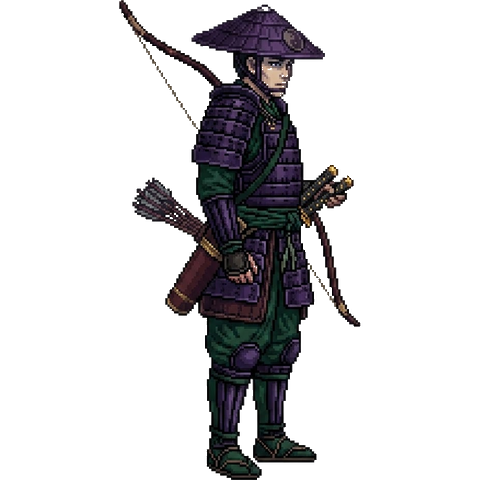
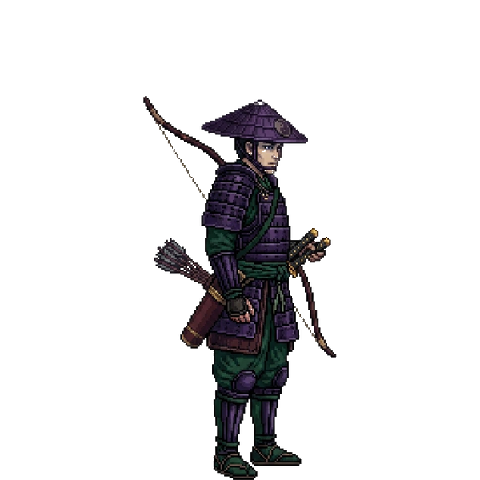
feat(st2): 난이도 4단계 + 12스테이지 압축 + 보상 개편 + 전투 규칙 확장
- 난이도 입문/수련/달인/수라 — 타이틀 선택(localStorage), HUD 표기.
  체력 가속(단계·스테이지 비례), 달인+ 갑옷 적(파란 점 — 어떤 피해든 1점으로
  흡수), 수라 2연격 적(⚔×2 배지, 체력 -2)
- 12스테이지로 단축 + 동일 체감 압축: 적 풀 해금·머릿수·다이묘 체력 가속,
  쇼군은 12층 최종보스. 승리 문구 교체
- 보상: 요양(최대체력+1) 복원(항상 잘리던 버그), 풀 셔플로 공평 등장,
  '안목'(선택지 +1, 최대 6) 신설, 항복 번호·숫자키 동적
- 웨이브 시작 시 쿨 2턴만 경감 — 쿨 3+ 기술은 잠긴 채 시작(돌파 너프)
- 밀치기: 벽 끝까지 넉백, 뒤 적과 격돌 시 양쪽 1딜 전파
- 이동: 인접 적과 자리 바꾸기(막힘 해소)
- 스코어보드 난이도별 분리 저장·표시(타이틀에서 난이도 선택 시 해당 보드)
- 낭인 88%·궁수 대기 80% PNG 재조정
- 검증 117케이스 ×3회 통과

Changed region(s): [[0.25, 0.0, 0.75, 1.0], [0.3438, 0.1562, 0.375, 0.2188]]

diff --git a/apps/games/st2/index.html b/apps/games/st2/index.html
@@ -141,6 +141,13 @@
       .mbtn .m-lb { font-weight: 700; letter-spacing: .5px; }
       .mbtn kbd { font-family: var(--font); font-size: 10px; color: var(--dim); border: 1px solid #4a3c26; border-bottom-width: 2px; border-radius: 4px; padding: 1px 5px; background: rgba(0,0,0,.3); }
       .keys { font-size: 11px; color: #5d5344; text-align: center; font-family: var(--font); }
+      .diff-row { display: flex; gap: 8px; justify-content: center; margin: 16px 0 2px; flex-wrap: wrap; }
+      .diff-btn { display: flex; flex-direction: column; gap: 2px; align-items: center; background: #1c170e; border: 1px solid #4a3c26; border-radius: 8px; color: var(--dim); padding: 8px 12px; cursor: pointer; font-family: var(--ui); }
+      .diff-btn b { color: var(--ink); font-size: 13px; }
+      .diff-btn span { font-size: 10px; }
+      .diff-btn.sel { border-color: var(--gold); box-shadow: 0 0 10px rgba(217,164,65,.35); }
+      .diff-btn.sel b { color: var(--gold); }
+      .uhp .uarm { color: #7fb7ff; text-shadow: 0 0 5px rgba(127,183,255,.7); }
 
       /* 오버레이 화면 */
       .screen { border: 1px solid var(--line); background: rgba(20,17,13,.96); border-radius: 12px; padding: 28px 22px; text-align: center; }
@@ -194,13 +201,20 @@
        *  - 적은 공격을 1턴 예고(⚠)한 뒤 다음 턴에 집행한다
        * ========================================================= */
       var W = 9, QMAX = 3, SOULMAX = 3;
+      var DIFFS = [
+        { name: '입문', desc: '기본 규칙' },
+        { name: '수련', desc: '적 체력 상승' },
+        { name: '달인', desc: '체력 가속 · 갑옷 적' },
+        { name: '수라', desc: '최고 가속 · 갑옷 강화 · 2연격' },
+      ];
+      function curDiff() { try { return Math.min(3, Math.max(0, +(localStorage.getItem('st2:diff') || 0))); } catch (e) { return 0; } }
 
       /* 기술패 도감 (오리지널) */
       var TILE_DEFS = {
         seg:  { key: 'seg',  name: '연속 베기', glyph: '斬', cd: 2, dmg: 1, hits: 2, info: function (t) { return '전방 1칸 ' + t.dmg + '딜 ×2연타'; } },
         hoe:  { key: 'hoe',  name: '회전베기', glyph: '旋', cd: 4, dmg: 1, info: function (t) { return '양옆 1칸 ' + t.dmg + '딜'; } },
         su:   { key: 'su',   name: '수리검', glyph: '手', cd: 3, dmg: 1, info: function (t) { return '전방 직선 첫 적 ' + t.dmg + '딜'; } },
-        mil:  { key: 'mil',  name: '밀치기', glyph: '押', cd: 2, dmg: 0, info: function (t) { return '전방 적 2칸 넉백' + (t.dmg ? ' +' + t.dmg + '딜' : '') + ' (벽 충돌 시 1딜)'; } },
+        mil:  { key: 'mil',  name: '밀치기', glyph: '押', cd: 2, dmg: 0, info: function (t) { return '전방 적을 벽까지 넉백' + (t.dmg ? ' +' + t.dmg + '딜' : '') + ' (충돌 시 서로 1딜)'; } },
         brk:  { key: 'brk',  name: '돌파',   glyph: '破', cd: 7, dmg: 1, info: function (t) { return '전방 첫 적(붙은 적 포함) 관통 ' + t.dmg + '딜 · 너머 착지'; } },
         dol:  { key: 'dol',  name: '돌진',   glyph: '走', cd: 4, dmg: 1, info: function (t) { return '전방 3칸 이동 후 ' + t.dmg + '딜'; } },
         bal:  { key: 'bal',  name: '발도술', glyph: '拔', cd: 5, dmg: 1, info: function (t) { return '전방 1·2칸 각 ' + t.dmg + '딜'; } },
@@ -557,16 +571,16 @@
 
       /* 스테이지 구성: 3스테이지 × 3웨이브, 마지막은 보스 */
       /* 15스테이지 — 일반 웨이브 2개씩, 3·6·9·12는 다이묘, 15는 최종보스 쇼군 */
-      var STAGES = 15, BOSS_EVERY = 3;
+      var STAGES = 12, BOSS_EVERY = 3;
       function wavesFor(stage) {
         var sNo = stage + 1;
         var pool = ['ronin'];
         if (sNo >= 2) pool.push('archer');
         if (sNo >= 3) pool.push('spear');
-        if (sNo >= 4) pool.push('ronin2');
-        if (sNo >= 5) pool.push('nin');
-        if (sNo >= 7) pool.push('monk');
-        var count = Math.min(4, 1 + Math.floor(sNo / 3));
+        if (sNo >= 3) pool.push('ronin2');
+        if (sNo >= 4) pool.push('nin');
+        if (sNo >= 6) pool.push('monk');
+        var count = Math.min(4, 1 + Math.floor(sNo / 2.5)); /* 12스테이지 압축 가속 */
         var waves = [];
         for (var w = 0; w < 2; w++) {
           var wave = [];
@@ -673,6 +687,9 @@
           queue: [], foes: [], log: '무사의 길이 열렸다. 적의 예고(⚠)를 읽어라.',
           over: false, won: false, reward: null,
         };
+        S.diff = curDiff();
+        S.rewardSlots = 3;
+        S.tiles.forEach(function (t) { t.cdLeft = Math.max(0, t.cd - 2); }); /* 시작: 쿨 2턴만 경감 */
         S.stageWaves = wavesFor(0);
         spawnWave();
         render();
@@ -703,7 +720,15 @@
         /* 벽에서 리스폰하면 벽 반대쪽을 본다 */
         if (S.p.pos === 0) S.p.dir = 1;
         else if (S.p.pos === W - 1) S.p.dir = -1;
-        S.foes.forEach(function (bf) { if (bf.type === 'daimyo') bf.hp = 6 + 2 * Math.ceil((S.stage + 1) / 3); });
+        S.foes.forEach(function (bf) { if (bf.type === 'daimyo') bf.hp = 6 + 2 * Math.ceil((S.stage + 1) / 2.4); });
+        var dl = S.diff || 0, dNo = S.stage + 1;
+        if (dl > 0) S.foes.forEach(function (bf) {
+          bf.hp += Math.floor(dl * dNo / 5); /* 난이도별 체력 가속(12스테이지 압축) */
+          var bs = FOE_DEFS[bf.type].boss;
+          if (bs) { if (dl >= 2) bf.armor = dl - 1; }
+          else if (dl >= 2 && dNo >= (dl >= 3 ? 3 : 4) && Math.random() < (dl >= 3 ? 0.4 : 0.3)) bf.armor = (dl >= 3 && Math.random() < 0.35) ? 2 : 1;
+          if (dl >= 3 && !bs && dNo >= 5 && Math.random() < 0.25) bf.dbl = true; /* 2연격 */
+        });
         var hasBoss = S.foes.some(function (bf) { return FOE_DEFS[bf.type].boss; });
         S.log = 'STAGE ' + (S.stage + 1) + ' — ' + (hasBoss ? '⚔ 보스가 길을 막는다!' : (S.wave + 1) + '번째 대치. 적 ' + S.foes.length + '명.');
       }
@@ -732,7 +757,7 @@
         seg: ['p', 'R', '.', '.', '.'],
         hoe: ['r', 'p', 'r', '.', '.'],
         su:  ['p', 'f', 'f', 'f', 'r'],
-        mil: ['p', 'r', 'm', 'm', '.'],
+        mil: ['p', 'r', 'm', 'm', 'm'],
         dol: ['p', 'm', 'm', 'm', 'r'],
         brk: ['p', 'f', 'f', 'f', 'm'],
         bal: ['p', 'r', 'r', '.', '.'],
@@ -746,6 +771,12 @@
 
       /* ---- 기술 집행 (오리지널 효과) ---- */
       function hitFoe(f, dmg, why) {
+        if ((f.armor || 0) > 0) { /* 갑옷(파란 점): 어떤 피해든 1점으로 막는다 */
+          f.armor--;
+          FX.slash.push(f.pos); FX.hurt.push(f.pos);
+          S.log = why + ' — ' + f.name + '의 갑옷이 막았다! (남은 갑옷 ' + f.armor + ')';
+          return;
+        }
         FX.slash.push(f.pos); FX.hurt.push(f.pos);
         f.hp -= dmg;
         if (f.hp <= 0) {
@@ -783,10 +814,16 @@
           if (tgt) {
             if (t.dmg > 0) hitFoe(tgt, t.dmg, t.name);
             if (tgt.hp > 0) {
-              var to = tgt.pos, moved = 0;
-              while (moved < 2 && inBoard(to + d) && !foeAt(to + d) && to + d !== p.pos) { to += d; moved++; }
+              /* 벽 끝까지 넉백 — 뒤 적과 부딪히면 양쪽 모두 충돌 피해 */
+              var to = tgt.pos;
+              while (inBoard(to + d) && !foeAt(to + d)) to += d;
               tgt.pos = to;
-              if (moved < 2) hitFoe(tgt, 1, '밀치기 충돌');
+              var behind = foeAt(to + d);
+              if (behind && behind !== tgt) {
+                hitFoe(tgt, 1, '충돌');
+                if (behind.hp > 0) hitFoe(behind, 1, '충돌');
+                S.log = '밀치기 — ' + tgt.name + ' 격돌! 양쪽 모두 충격';
+              } else if (!inBoard(to + d)) hitFoe(tgt, 1, '벽 충돌');
               else S.log = '밀치기 — ' + tgt.name + ' 넉백';
             }
           }
@@ -835,10 +872,10 @@
           if (f.intent.delay > 1) { f.intent.delay--; continue; } /* 차지 중 — 아직 안 쏨 */
           FX.fatk.push(f.pos);
           if (f.intent.cells.indexOf(S.p.pos) >= 0) {
-            S.p.hp -= 1;
+            S.p.hp -= (f.dbl ? 2 : 1);
             FX.ehit.push(S.p.pos); FX.hurtP = true; FX.quake = true;
             SFX.hurt();
-            S.log = f.name + '의 일격! 체력 -1';
+            S.log = f.name + (f.dbl ? '의 2연격!! 체력 -2' : '의 일격! 체력 -1');
             if (S.p.hp <= 0) { S.over = true; saveBest(); return; }
           }
           f.intent = null;
@@ -938,16 +975,22 @@
         var opts = [];
         var unowned = Object.keys(TILE_DEFS).filter(function (k) { return !S.tiles.some(function (t) { return t.key === k; }); });
         if (unowned.length && S.tiles.length < 6) { var k = unowned[(Math.random() * unowned.length) | 0]; opts.push({ kind: 'new', key: k, label: '새 기술패: ' + TILE_DEFS[k].name, desc: TILE_DEFS[k].info(TILE_DEFS[k]) }); }
-        var up = S.tiles[(Math.random() * S.tiles.length) | 0];
-        opts.push({ kind: 'dmg', key: up.key, label: up.name + ' 강화', desc: '피해 +1 (현재 ' + up.dmg + ')' });
+        /* 강화 풀을 섞어 요양·안목도 공평하게 (예전엔 요양이 항상 잘려나가는 버그) */
+        var pool = [];
+        var ups = S.tiles.slice();
+        for (var ui = ups.length - 1; ui > 0; ui--) { var uj = (Math.random() * (ui + 1)) | 0; var ut = ups[ui]; ups[ui] = ups[uj]; ups[uj] = ut; }
+        ups.slice(0, 2).forEach(function (up) { pool.push({ kind: 'dmg', key: up.key, label: up.name + ' 강화', desc: '피해 +1 (현재 ' + up.dmg + ')' }); });
         var cdT = S.tiles.filter(function (t) { return t.cd > 1; });
-        if (cdT.length) { var c = cdT[(Math.random() * cdT.length) | 0]; opts.push({ kind: 'cd', key: c.key, label: c.name + ' 단련', desc: '쿨다운 -1 (현재 ' + c.cd + '턴)' }); }
-        opts.push({ kind: 'hp', label: '요양', desc: '최대 체력 +1 · 전체 회복' });
+        if (cdT.length) { var c = cdT[(Math.random() * cdT.length) | 0]; pool.push({ kind: 'cd', key: c.key, label: c.name + ' 단련', desc: '쿨다운 -1 (현재 ' + c.cd + '턴)' }); }
+        pool.push({ kind: 'hp', label: '요양', desc: '최대 체력 +1 · 전체 회복' });
+        if ((S.rewardSlots || 3) < 6) pool.push({ kind: 'slot', label: '안목', desc: '보상 선택지 +1 (현재 ' + (S.rewardSlots || 3) + '/6)' });
+        for (var si = pool.length - 1; si > 0; si--) { var sj = (Math.random() * (si + 1)) | 0; var sv = pool[si]; pool[si] = pool[sj]; pool[sj] = sv; }
+        opts = opts.concat(pool);
         /* 레어(보라) — 오의 강화는 가끔만 뜬다 */
         var rares = [];
         if (Math.random() < 0.18) rares.push({ kind: 'soul_dmg', rare: 1, label: '오의 연마 · 일섬', desc: '일섬 피해 +2 (현재 ' + S.soulDmg + ')' });
         if (S.soulMax > 2 && Math.random() < 0.04) rares.push({ kind: 'soul_max', rare: 2, label: '혼의 그릇 · 일섬', desc: '혼 게이지 ' + S.soulMax + ' → ' + (S.soulMax - 1) + ' (충전 단축)' });
-        return rares.concat(opts).slice(0, 3);
+        return rares.concat(opts).slice(0, S.rewardSlots || 3);
       }
       function pickReward(i) {
         if (!S || !S.reward || !S.reward[i]) return;
@@ -958,11 +1001,12 @@
         else if (o.kind === 'hp') { S.p.maxHp++; S.p.hp = S.p.maxHp; }
         else if (o.kind === 'soul_dmg') S.soulDmg += 2;
         else if (o.kind === 'soul_max') S.soulMax = Math.max(2, S.soulMax - 1);
+        else if (o.kind === 'slot') S.rewardSlots = Math.min(6, (S.rewardSlots || 3) + 1);
         S.reward = null;
         S.wave++;
         if (S.wave >= S.stageWaves.length) { S.stage++; S.wave = 0; S.stageWaves = wavesFor(S.stage); }
         S.queue = [];
-        S.tiles.forEach(function (t) { t.cdLeft = 0; });
+        S.tiles.forEach(function (t) { t.cdLeft = Math.max(0, t.cd - 2); }); /* 웨이브 시작: 쿨 2턴만 경감 */
         spawnWave();
         render();
       }
@@ -974,8 +1018,10 @@
         bgmStart();
         if (type === 'move') {
           var np = p.pos + arg;
-          if (!inBoard(np) || foeAt(np)) { S.log = '길이 막혀 있다.'; render(); return; }
-          p.pos = np; SFX.step();
+          if (!inBoard(np)) { S.log = '길이 막혀 있다.'; render(); return; }
+          var blocker = foeAt(np);
+          if (blocker) { blocker.pos = p.pos; p.pos = np; SFX.step(); S.log = blocker.name + '와 자리를 바꿨다.'; }
+          else { p.pos = np; SFX.step(); }
         } else if (type === 'flip') { p.dir = -p.dir; S.log = '방향 전환.'; SFX.flip(); }
         else if (type === 'wait') { S.log = '호흡을 고른다.'; }
         else if (type === 'queue') {
@@ -1017,17 +1063,19 @@
         try { var b = +localStorage.getItem('st2:best') || 0; if (score() > b) localStorage.setItem('st2:best', String(score())); } catch (e) {}
         recordRun();
       }
-      function loadBoard() { try { return JSON.parse(localStorage.getItem('st2:board') || '[]'); } catch (e) { return []; } }
+      /* 난이도별 보드 분리 — 입문은 기존 키 그대로(기록 보존) */
+      function boardKey(d) { return 'st2:board' + (d ? ':d' + d : ''); }
+      function loadBoard(d) { try { return JSON.parse(localStorage.getItem(boardKey(d)) || '[]'); } catch (e) { return []; } }
       function recordRun() {
         try {
-          var b = loadBoard();
+          var b = loadBoard(S.diff);
           b.push({ s: score(), st: S.stage + 1, k: S.kills, w: S.won ? 1 : 0, d: new Date().toISOString().slice(0, 10) });
           b.sort(function (x, y) { return y.s - x.s; });
-          localStorage.setItem('st2:board', JSON.stringify(b.slice(0, 10)));
+          localStorage.setItem(boardKey(S.diff), JSON.stringify(b.slice(0, 10)));
         } catch (e) {}
       }
-      function boardHtml(cur) {
-        var b = loadBoard();
+      function boardHtml(cur, dIdx) {
+        var b = loadBoard(dIdx || 0);
         if (!b.length) return '';
         var hi = cur != null ? b.findIndex(function (r) { return r.s === cur; }) : -1;
         var rows = b.slice(0, 5).map(function (r, i) {
@@ -1037,7 +1085,7 @@
           var mr = b[hi];
           rows += '<tr class="me"><td>' + (hi + 1) + '</td><td>' + mr.s + '</td><td>' + (mr.w ? '천하통일' : 'S' + mr.st) + '</td><td>' + mr.k + '</td><td>' + mr.d + '</td></tr>';
         }
-        return '<div class="board-label">— 나의 기록 (이 브라우저) —</div><table class="board"><tr><th>#</th><th>점수</th><th>도달</th><th>격파</th><th>날짜</th></tr>' + rows + '</table>';
+        return '<div class="board-label">— 나의 기록 · ' + DIFFS[dIdx || 0].name + ' (이 브라우저) —</div><table class="board"><tr><th>#</th><th>점수</th><th>도달</th><th>격파</th><th>날짜</th></tr>' + rows + '</table>';
       }
       function best() { try { return +localStorage.getItem('st2:best') || 0; } catch (e) { return 0; } }
 
@@ -1091,8 +1139,8 @@
               var eCls = 'unit ' + (FOE_DEFS[f.type].boss ? 'boss' : 'en') + ' sp-' + FOE_DEFS[f.type].sprite + (lookLeft ? ' flip' : '') + (FX.hurt.indexOf(i) >= 0 ? ' hurt' : '') +
                 (striking ? (lookLeft ? ' atkL' : ' atkR') : '') + (fImg ? ' imgmode' : '');
               var fBody = fImg ? '<img class="hero-img" src="' + fImg + '" alt="" />' : unitSvg(FOE_DEFS[f.type].sprite);
-              var intentBadge = f.intent ? '<span class="u-int' + (f.intent.delay <= 1 ? ' now' : '') + '">⚔' + f.intent.delay + '</span>' : '';
-              inner = '<span class="' + eCls + '">' + fBody + intentBadge + '<span class="uhp">' + '●'.repeat(f.hp) + '</span></span>';
+              var intentBadge = f.intent ? '<span class="u-int' + (f.intent.delay <= 1 ? ' now' : '') + '">⚔' + f.intent.delay + (f.dbl ? '×2' : '') + '</span>' : '';
+              inner = '<span class="' + eCls + '">' + fBody + intentBadge + '<span class="uhp">' + '●'.repeat(Math.max(0, f.hp)) + ((f.armor || 0) > 0 ? '<span class="uarm">' + '●'.repeat(f.armor) + '</span>' : '') + '</span></span>';
             }
           }
           if (FX.dash.indexOf(i) >= 0) inner += '<span class="fx-dash"></span>';
@@ -1117,7 +1165,7 @@
         }).join('');
         $g.innerHTML =
           '<div class="hud"><span class="hp">' + '♥'.repeat(S.p.hp) + '<span style="opacity:.25">' + '♥'.repeat(Math.max(0, S.p.maxHp - S.p.hp)) + '</span></span>' +
-          '<span class="st">STAGE ' + (S.stage + 1) + '/15 · WAVE ' + (S.wave + 1) + ' · TURN ' + S.turn + '</span>' +
+          '<span class="st">STAGE ' + (S.stage + 1) + '/12 · ' + DIFFS[S.diff || 0].name + ' · WAVE ' + (S.wave + 1) + ' · TURN ' + S.turn + '</span>' +
           '<span class="soul" title="적을 격파하면 혼이 차오른다">魂 ' + '●'.repeat(S.soul) + '<span style="opacity:.3">' + '●'.repeat(Math.max(0, S.soulMax - S.soul)) + '</span></span>' +
           '<span class="score">SCORE ' + score() + '</span>' +
           '<button class="mute" id="mute" title="사운드 켜기/끄기">' + (AU.muted ? '🔇' : '🔊') + '</button>' +
@@ -1140,29 +1188,34 @@
       function titleHtml() {
         return '<div class="screen"><h1>사무라이 택틱스 <span class="two">2</span></h1>' +
           '<div class="sub">한 줄 전장 · 큐 콤보 · 예고를 읽는 검술 두뇌전</div>' +
-          '<div class="stat">BEST SCORE ' + best() + '</div>' + boardHtml() +
-          '<button class="big-btn" id="start">입문 (시작)</button>' +
+          '<div class="stat">BEST SCORE ' + best() + '</div>' + boardHtml(null, curDiff()) +
+          '<div class="diff-row">' + DIFFS.map(function (df, i2) { return '<button class="diff-btn' + (i2 === curDiff() ? ' sel' : '') + '" data-diff="' + i2 + '"><b>' + df.name + '</b><span>' + df.desc + '</span></button>'; }).join('') + '</div>' +
+          '<button class="big-btn" id="start">' + DIFFS[curDiff()].name + ' (시작)</button>' +
           '<div class="howto"><b>규칙.</b> 모든 행동은 1턴이고, 그때마다 적도 움직인다.<br />' +
           '적은 공격 전에 <b>⚠로 예고</b>한다 — 예고된 칸을 피하거나, 그 전에 베어라.<br />' +
           '기술패를 <b>콤보 큐(최대 3)</b>에 쌓고 <b>발동</b>하면 한 호흡에 집행된다. 사용한 패는 쿨다운.<br />' +
           '기술은 <b>바라보는 방향(▶/◀)</b>으로 나간다. 등 뒤는 <b>⇄ 전환</b>으로 지켜라.<br />' +
           '적을 격파하면 <b>혼(魂)</b>이 차오른다. 게이지가 가득 차면 오의 <b>일섬(一閃)</b> — 전방의 모든 적을 <b>관통하며 베어</b> 반대편으로 빠져나간다.<br />' +
-          '웨이브를 이기면 보상 — 새 기술·강화·회복. <b>다이묘</b>가 3·6·9·12 스테이지마다 길을 막고, <b>15 스테이지의 쇼군</b>을 베면 천하통일.</div></div>';
+          '웨이브를 이기면 보상 — 새 기술·강화·회복. <b>다이묘</b>가 3·6·9 스테이지마다 길을 막고, <b>12 스테이지의 쇼군</b>을 베면 천하통일.</div></div>';
       }
       function rewardHtml() {
-        return '<div class="screen"><h1 style="font-size:22px">승리의 대가</h1><div class="sub">하나를 고르시오 — 숫자키 <b>1·2·3</b> (4 = 항복)</div><div class="reward-opts">' +
+        var giveN = S.reward.length + 1;
+        return '<div class="screen"><h1 style="font-size:22px">승리의 대가</h1><div class="sub">하나를 고르시오 — 숫자키 <b>1~' + S.reward.length + '</b> (' + giveN + ' = 항복)</div><div class="reward-opts">' +
           S.reward.map(function (o, i) { return '<button class="tile' + (o.rare === 2 ? ' legend' : o.rare ? ' rare' : '') + '" data-r="' + i + '"><span class="r-num">' + (i + 1) + '</span><div class="t-name">' + esc(o.label) + '</div><div class="t-info">' + esc(o.desc) + '</div></button>'; }).join('') +
-          '<button class="tile r-giveup" data-r="give"><span class="r-num">4</span><div class="t-name">🏳 항복</div><div class="t-info">런을 포기하고 처음부터 다시</div></button>' +
+          '<button class="tile r-giveup" data-r="give"><span class="r-num">' + giveN + '</span><div class="t-name">🏳 항복</div><div class="t-info">런을 포기하고 처음부터 다시</div></button>' +
           '</div></div>';
       }
       function endHtml() {
         return '<div class="screen"><h1 style="font-size:26px">' + (S.won ? '천하통일' : '낙명(落命)') + '</h1>' +
-          '<div class="sub">' + (S.won ? '다이묘를 베었다. 그대의 검이 시대를 갈랐다.' : 'STAGE ' + (S.stage + 1) + '에서 쓰러졌다. 검은 다시 잡는 자의 것.') + '</div>' +
-          '<div class="stat">SCORE ' + score() + ' · BEST ' + best() + ' · 격파 ' + S.kills + '</div>' + boardHtml(score()) +
+          '<div class="sub">' + (S.won ? '쇼군을 베었다. 그대의 검이 시대를 갈랐다.' : 'STAGE ' + (S.stage + 1) + '에서 쓰러졌다. 검은 다시 잡는 자의 것.') + '</div>' +
+          '<div class="stat">SCORE ' + score() + ' · BEST ' + best() + ' · 격파 ' + S.kills + '</div>' + boardHtml(score(), S.diff) +
           '<button class="big-btn" id="start">' + (S.won ? '한 번 더' : '재도전') + '</button></div>';
       }
       function wire() {
         var st = document.getElementById('start'); if (st) st.onclick = newRun;
+        Array.prototype.forEach.call($g.querySelectorAll('[data-diff]'), function (b) {
+          b.onclick = function () { try { localStorage.setItem('st2:diff', b.dataset.diff); } catch (err) {} $g.innerHTML = titleHtml(); wire(); };
+        });
         var sk = document.getElementById('strike'); if (sk) sk.onclick = function () { act('strike'); };
         var so = document.getElementById('soul'); if (so) so.onclick = function () { act('soul'); };
         var mu = document.getElementById('mute'); if (mu) mu.onclick = toggleMute;
@@ -1185,8 +1238,9 @@
       document.addEventListener('keydown', function (e) {
         if (!S) return;
         if (S.reward) {
-          if (e.key >= '1' && e.key <= '3' && S.reward[+e.key - 1]) pickReward(+e.key - 1);
-          else if (e.key === '4') { SFX.die(); newRun(); }
+          var rn = +e.key;
+          if (rn >= 1 && rn <= S.reward.length && S.reward[rn - 1]) pickReward(rn - 1);
+          else if (rn === S.reward.length + 1) { SFX.die(); newRun(); }
           return;
         }
         if (e.key === 'ArrowLeft' || e.key === 'a' || e.key === 'A') act('move', -1);
